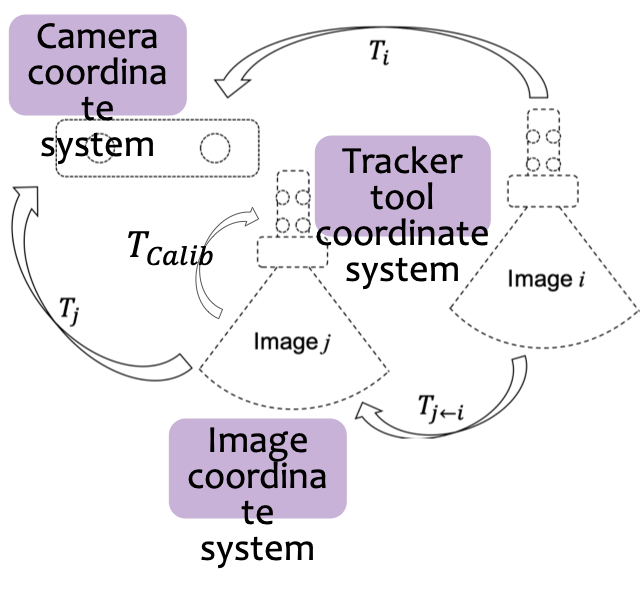
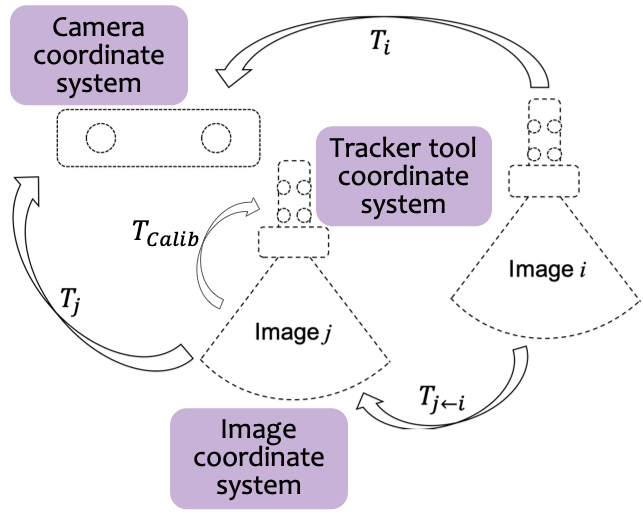
fixing bug in displaying equations

diff --git a/task2025.md b/task2025.md
@@ -20,7 +20,7 @@ The aim of Freehand US reconstruction is to estimate the transformation between 
 </div >
 
 <div align=center>
-Fig. 1. An example workflow of freehand US reconstruction.
+Fig. 1. An illustration of freehand US reconstruction.
 </div >
 <!-- <p align="center">
   <img src="img2025/rec.png" />
@@ -31,22 +31,54 @@ Fig. 1. An example workflow of freehand US reconstruction.
 </figure> -->
 
 
-For an US scan $ \mathcal{S}$, image sequences comprising $M$ 2D frames can be sampled as $S=\{I_m\}, m=1,2,...,M$, where $S \subseteq {\mathcal{S}}$ and $m$ represents consecutively increasing time-steps at which the frames are acquired. Let $T_{j\leftarrow i}, 1 \leq i<j \leq M$ denote the rigid transformation from the $i^{th}$ frame to the $j^{th}$ frame. Reconstructing the 3D US volume and the trajectory of the US probe requires determining the position of each frame. Since freehand US systems lack an absolute coordinate system, the first frame is chosen as the reference with $T_1=I$, where $I$ is the identity matrix. As a result, only the relative transformations with respect to the first frame are needed.
+For an US scan $ \mathcal{S}$, image sequences comprising $M$ 2D frames can be sampled as $S=\{I_m\}, m=1,2,...,M$, where $S \subseteq {\mathcal{S}}$ and $m$ represents consecutively increasing time-steps at which the frames are acquired. [Fig. 2](#figure2) shows the relationship among three coordinate systems: the image coordinate system, the tracker tool coordinate system, and the camera coordinate system.  
+<div align=center>
+  <a 
+  target="_blank"><img 
+  style="padding: 10px;" 
+  src="img2025/coordinate_system.png" 
+  width=400px
+  id="figure2">
+  
+</a>
 
-In general, prior studies have formulated the freehand US problem as the estimation of the transformation between two frames in an US sequence. This estimation relies on a function $f$, which serves as the core of the problem, as expressed in [Eq. 1](#freehandUS):  
+</div >
+<div align=center>
+Fig. 2. The relationship among three coordinate systems: the image coordinate system, the tracker tool coordinate system, and the camera coordinate system.
+</div>
+
+
+The rigid transformation from the $i^{th}$ frame to the $j^{th}$ frame, $T_{j\leftarrow i}$, can be obtained using [Eq. 1](#transformation), where $T_{j\leftarrow i}^{tool}$ denotes the transformation between $i^{th}$ tacker tool to the $j^{th}$ track tool, and $T_{calib}$ represents the calibration matrix.
+<a id="transformation"></a>
+$$
+T_{j\leftarrow i}= T_{j\leftarrow i}^{tool} \times T_{calib}, 1 \leq i<j \leq M
+$$
+
+In general, prior studies have formulated freehand US reconstruction as the estimation of the transformation between two frames in an US sequence. This estimation relies on a function $f$, which serves as the core of freehand US reconstruction, as expressed in [Eq. 2](#freehandUS):  
 <a id="freehandUS"></a>
 $$
 T_{j\leftarrow i} \approx f(I_i, I_j)
 $$
 
-Typically, adjacent frames are used in [Eq. 1](#freehandUS), where $j = i+1$. The position of each frame $T_m$ can be computed by recursively multiplying the previously estimated relative transformations, as shown in [Eq. 2](#chain-multiplying):
+Typically, adjacent frames are used in [Eq. 2](#freehandUS), where $j = i+1$. The transformation from $i^{th}$ frame to the first frame $T_i$ can be computed by recursively multiplying the previously estimated relative transformations, as shown in [Eq. 3](#chain-multiplying):
 
 <a id="chain-multiplying"></a>
 $$
-T_m=T_{m\leftarrow m-1} \times \cdots \times T_{3\leftarrow 2} \times T_{2\leftarrow 1} \times T_{1}
+T_i=T_{i\leftarrow i-1} \times \cdots \times T_{3\leftarrow 2} \times T_{2\leftarrow 1} \times T_{1}
 $$
 
-Moreover, [Eq. 2](#chain-multiplying) demonstrates that estimation errors can propagate and accumulate throughout the chain, ultimately resulting in trajectory drift.
+Moreover, [Eq. 3](#chain-multiplying) demonstrates that estimation errors can propagate and accumulate throughout the chain, ultimately resulting in trajectory drift.
+
+Reconstructing the 3D US volume and the trajectory of the US frames requires determining the position of each frame. Since freehand US systems lack an absolute coordinate system, the first frame is chosen as the reference with $T_1=I$, where $I$ is the identity matrix. As a result, only the relative transformations with respect to the first frame are needed.
+For any pixel $p$ in $i^{th}$ frame, the coordinate in camera coordinate system $Cor_p$, with respect to the first frame, can be obtained using [Eq. 4](#coordinate).
+<a id="coordinate"></a>
+$$
+Cor_p = T_i \times I_p
+$$
+<!-- where $T_i$ denotes the transformation from $i^{th}$ frame to the first frame. -->
+
+
+
 
 # Task Description
 
